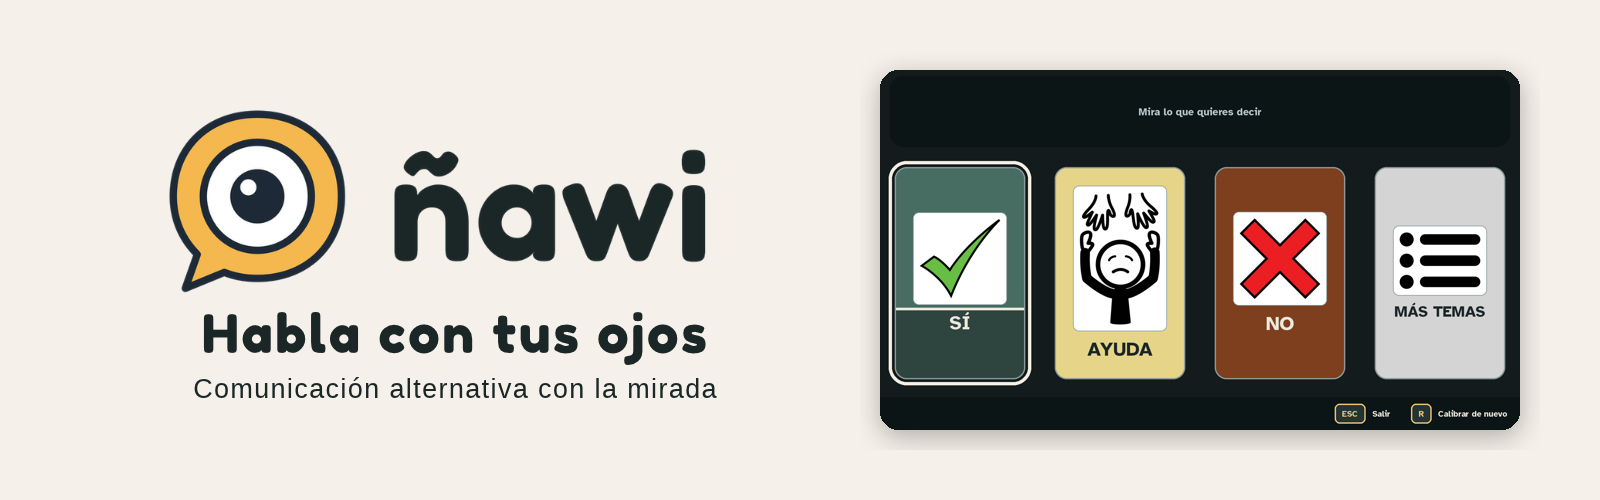
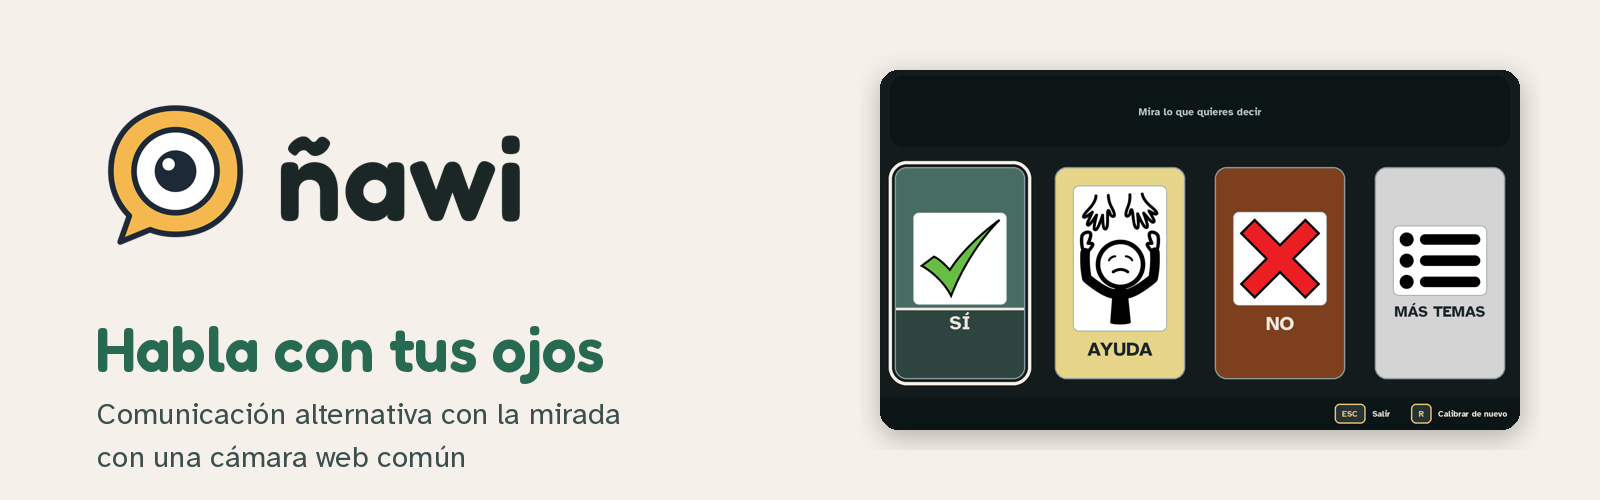
Actualizacion de readme
Estetica

Changed region(s): [[0.0625, 0.21, 0.4688, 0.6], [0.0625, 0.63, 0.4688, 0.87], [0.0625, 0.9, 0.3125, 0.93]]

diff --git a/README.md b/README.md
@@ -3,14 +3,33 @@
 </p>
 
 <p align="center">
-  <a href="../../releases/latest/download/Nawi_instalador.exe"><b>Descargar para Windows</b></a>
-  &nbsp;&nbsp;  &nbsp;&nbsp;
-  <a href="../../releases/latest/download/Manual_de_uso_Nawi.pdf"><b>Manual de uso</b></a>
-  &nbsp;&nbsp;  &nbsp;&nbsp;
-  <a href="https://youtu.be/qmSS_YJhY3A"><b>Ver el video</b></a>
+  <a href="../../releases/latest/download/Nawi_instalador.exe"><img src="imagenes/boton_descargar.png" alt="Descargar para Windows" width="260"></a>
+  <a href="../../releases/latest/download/Manual_de_uso_Nawi.pdf"><img src="imagenes/boton_manual.png" alt="Manual de uso" width="260"></a>
+  <a href="https://youtu.be/qmSS_YJhY3A"><img src="imagenes/boton_video.png" alt="Ver el video" width="260"></a>
 </p>
 
 **Ñawi** es un programa de comunicación alternativa con la mirada. La persona elige pictogramas del tablero mirándolos, y el programa dice la palabra en voz alta. Solo hace falta una computadora con Windows y una cámara web común.
+
+> [!NOTE]
+> No necesita internet: ni para instalar ni para usar Ñawi.
+
+<p align="center">
+  <img src="imagenes/tablero.gif" alt="El usuario sostiene la mirada en SÍ, la celda se llena y Ñawi dice la palabra; después elige NO" width="720">
+</p>
+
+---
+
+## Cómo funciona
+
+<p align="center">
+  <picture>
+    <source media="(prefers-color-scheme: dark)" srcset="imagenes/pasos_oscuro.png">
+    <source media="(prefers-color-scheme: light)" srcset="imagenes/pasos_claro.png">
+    <img src="imagenes/pasos_claro.png" alt="1 Ubícate frente a la cámara, 2 calibra mirando cada punto, 3 mira una celda y Ñawi dice la palabra" width="900">
+  </picture>
+</p>
+
+---
 
 ## Video: de la descarga a la primera sesión
 
@@ -18,13 +37,22 @@
   <a href="https://youtu.be/qmSS_YJhY3A"><img src="imagenes/video.png" alt="Ver el video de Ñawi" width="640"></a>
 </p>
 
+---
+
 ## Cómo se ve
 
-| Tablero | Pantalla de inicio |
-|---|---|
-| <img src="imagenes/tablero.png" alt="Tablero de Ñawi"> | <img src="imagenes/inicio.png" alt="Pantalla de inicio"> |
-| **Configurar** | **Tutorial** |
-| <img src="imagenes/configurar.png" alt="Configurar el tablero"> | <img src="imagenes/tutorial.png" alt="Tutorial"> |
+<table align="center">
+  <tr>
+    <td align="center" width="50%"><img src="imagenes/tablero.png" alt="Tablero de Ñawi"><br><b>Tablero</b><br><sub>Se elige sosteniendo la mirada</sub></td>
+    <td align="center" width="50%"><img src="imagenes/inicio.png" alt="Pantalla de inicio"><br><b>Pantalla de inicio</b><br><sub>La maneja el adulto con el mouse</sub></td>
+  </tr>
+  <tr>
+    <td align="center" width="50%"><img src="imagenes/configurar.png" alt="Configurar el tablero"><br><b>Configurar</b><br><sub>Celdas, palabras, voz y apariencia</sub></td>
+    <td align="center" width="50%"><img src="imagenes/tutorial.png" alt="Tutorial"><br><b>Tutorial</b><br><sub>Práctica paso a paso antes de usar el tablero</sub></td>
+  </tr>
+</table>
+
+---
 
 ## Descargar
 
@@ -36,13 +64,19 @@
 
 Los enlaces siempre bajan la última versión. Las versiones anteriores y sus cambios están en [Versiones](../../releases).
 
-El instalador ya trae todo lo necesario, incluidos el manual y la guía rápida. No necesita Python ni internet para instalar ni para usar Ñawi.
+El instalador ya trae todo lo necesario, incluidos el manual y la guía rápida; no hace falta instalar Python ni nada más.
 
+> [!TIP]
 > Al abrir el instalador, Windows puede mostrar «Windows protegió su PC», porque el programa no tiene firma comercial. Pulse **Más información** y luego **Ejecutar de todas formas**.
+
+---
 
 ## Es un prototipo
 
-Ñawi es un prototipo de investigación, desarrollado como proyecto de grado. No es un dispositivo médico, no reemplaza la evaluación de un profesional y no debe ser el único medio para avisar de una urgencia. Úselo siempre con un adulto presente.
+> [!WARNING]
+> Ñawi es un prototipo de investigación, desarrollado como proyecto de grado. No es un dispositivo médico, no reemplaza la evaluación de un profesional y no debe ser el único medio para avisar de una urgencia. Úselo siempre con un adulto presente.
+
+---
 
 ## Qué necesita el usuario
 
@@ -66,11 +100,13 @@ No es adecuado si hay movimientos involuntarios de los ojos o de la cabeza que n
 | Pantalla | 1280 x 720 o mayor |
 | Internet | no hace falta |
 
+---
+
 ## Contacto
 
 Nataly S. Romero J., [nsromero.j@gmail.com](mailto:nsromero.j@gmail.com)
 
-Si algo no funciona, escriba desde la Ayuda del programa («Si algo no funciona») y adjunte el archivo `errores.log` de la carpeta `datos` de Ñawi.
+Si algo no funciona, escriba desde la Ayuda del programa («Si algo no funciona») y, si puede, adjunte el archivo `errores.log` de la carpeta `datos` de Ñawi.
 
 ## Licencia
 
